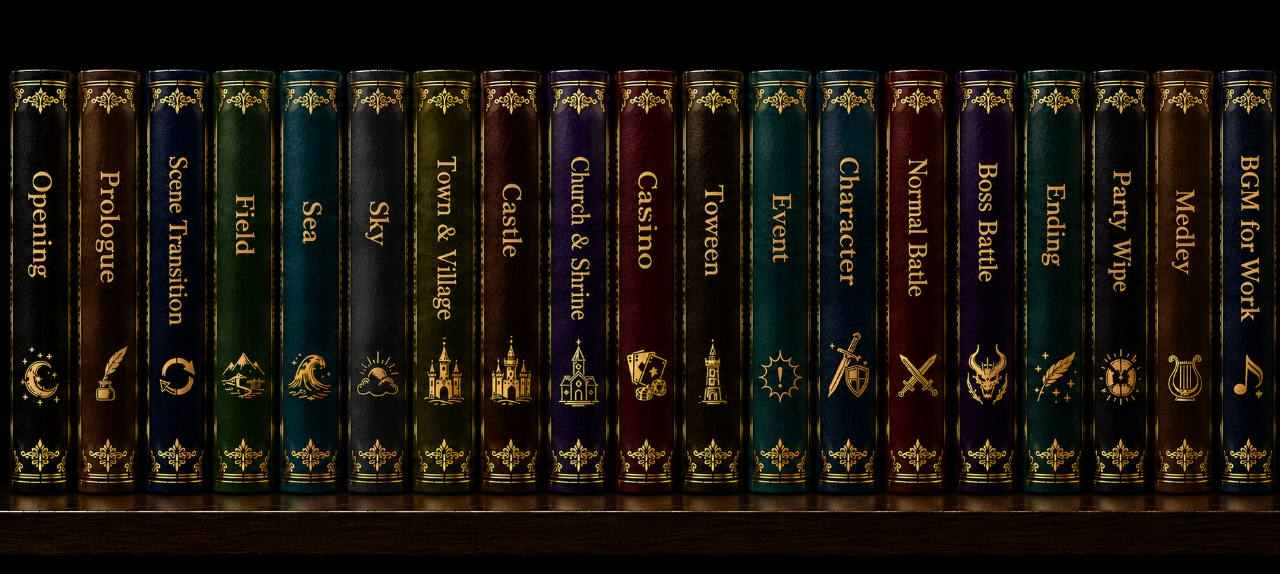
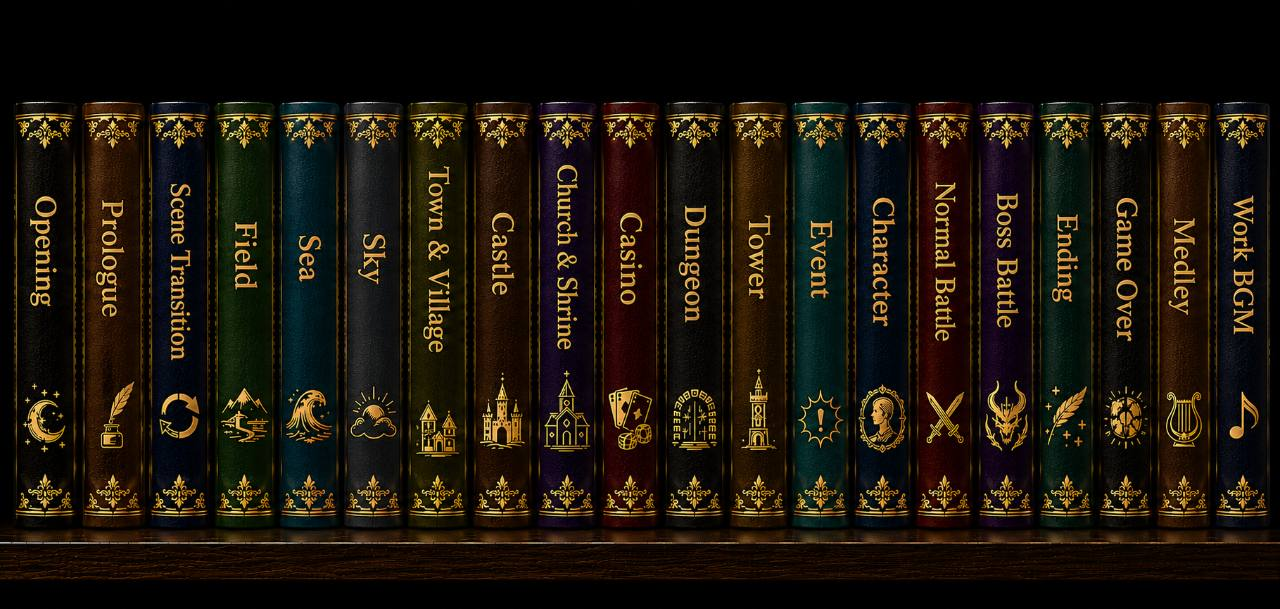
Replace English category bookshelf image

diff --git a/styles.css b/styles.css
@@ -1860,7 +1860,7 @@ h1 {
 }
 
 .bookcase-shelf-category-en {
-  aspect-ratio: 1280 / 574;
+  aspect-ratio: 1280 / 609;
   background-image: url("./assets/bookshelf-category-wide-reference-en.jpg");
 }
 
@@ -2383,7 +2383,7 @@ h1 {
 }
 
 .bookcase-shelf-category-en {
-  aspect-ratio: 1280 / 574;
+  aspect-ratio: 1280 / 609;
   background-image: url("./assets/bookshelf-category-wide-reference-en.jpg");
 }
 
@@ -2736,7 +2736,7 @@ h1 {
 
   .bookcase-shelf-category-en {
     min-width: 1100px;
-    aspect-ratio: 1280 / 574;
+    aspect-ratio: 1280 / 609;
     background-size: 100% 100%;
     background-position: center;
   }
